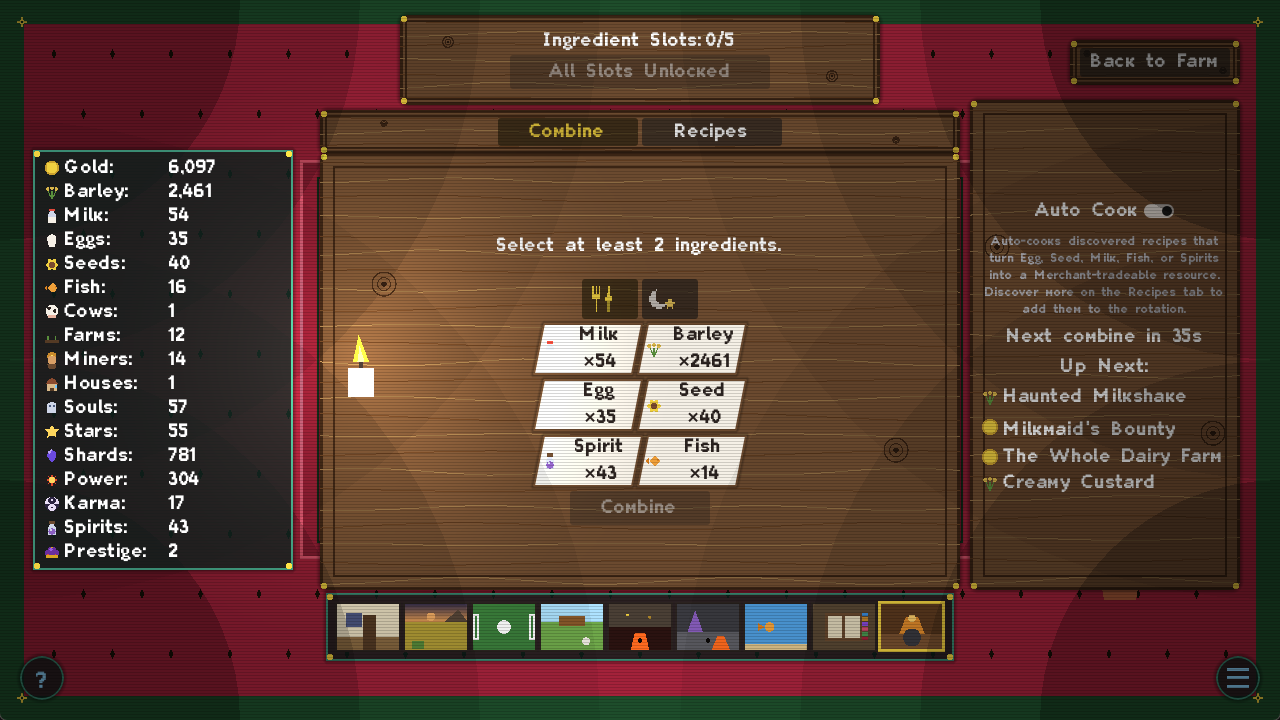
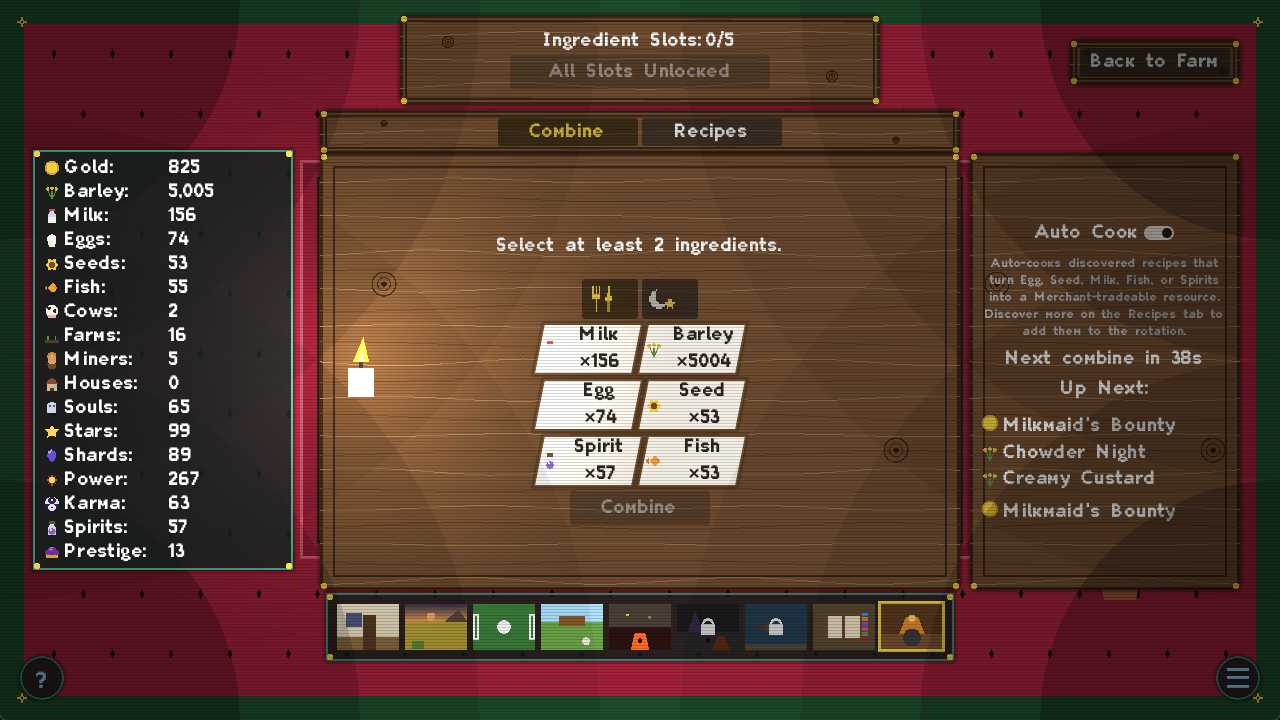
Add game trailer

diff --git a/style.css b/style.css
@@ -49,6 +49,7 @@ a { color: inherit; }
 }
 
 h1, h2, h3 { line-height: 1.15; margin: 0 0 0.75rem; }
+h3 { color: var(--studio-rust); }
 
 /* Buttons */
 .btn {
@@ -216,12 +217,41 @@ h1, h2, h3 { line-height: 1.15; margin: 0 0 0.75rem; }
   opacity: 0.85;
 }
 
-/* About */
-.about {
+/* Trailer */
+.trailer {
   background: var(--game-navy-1);
   padding: 4rem 0;
+  text-align: center;
+  border-bottom: 1px solid rgba(255, 255, 255, 0.06);
 }
-.about h3 { color: var(--accent-orange); }
+.trailer-tag {
+  max-width: 560px;
+  margin: 0 auto;
+  opacity: 0.85;
+}
+.video-embed {
+  position: relative;
+  width: 100%;
+  max-width: 860px;
+  margin: 2rem auto 0;
+  aspect-ratio: 16 / 9;
+  border-radius: 8px;
+  overflow: hidden;
+  border: 1px solid var(--game-navy-3);
+}
+.video-embed iframe {
+  position: absolute;
+  inset: 0;
+  width: 100%;
+  height: 100%;
+  border: 0;
+}
+
+/* About */
+.about {
+  background: var(--game-navy-2);
+  padding: 4rem 0;
+}
 .feature-grid {
   list-style: none;
   margin: 2rem 0 0;
@@ -232,7 +262,7 @@ h1, h2, h3 { line-height: 1.15; margin: 0 0 0.75rem; }
   gap: 1rem;
 }
 .feature-grid li {
-  background: var(--game-navy-2);
+  background: var(--game-navy-1);
   border: 1px solid var(--game-navy-3);
   border-radius: 8px;
   padding: 1.25rem 1rem;
@@ -255,10 +285,9 @@ h1, h2, h3 { line-height: 1.15; margin: 0 0 0.75rem; }
 
 /* Screenshots */
 .screenshots {
-  background: var(--game-navy-2);
+  background: var(--game-navy-1);
   padding: 4rem 0;
 }
-.screenshots h3 { color: var(--accent-yellow); }
 .screenshot-grid {
   margin-top: 2rem;
   display: grid;
@@ -271,13 +300,24 @@ h1, h2, h3 { line-height: 1.15; margin: 0 0 0.75rem; }
   border: 1px solid var(--game-navy-3);
 }
 
+/* CTA repeat */
+.cta-repeat {
+  background: var(--game-navy-2);
+  padding: 3rem 0;
+  text-align: center;
+}
+.cta-repeat p {
+  margin: 0 0 1rem;
+  opacity: 0.85;
+  font-size: 1.1rem;
+}
+
 /* More games */
 .more-games {
   background: var(--game-navy-1);
   padding: 3.5rem 0;
   text-align: center;
 }
-.more-games h3 { color: var(--accent-green); }
 .more-games p {
   max-width: 560px;
   margin: 0 auto;

diff --git a/index.html b/index.html
@@ -15,6 +15,7 @@
       <a href="#top" class="wordmark" aria-label="mendlogames home">mendlogames</a>
       <nav class="nav">
         <a href="#game">Game</a>
+        <a href="#trailer">Trailer</a>
         <a href="#screenshots">Screenshots</a>
         <a href="#contact">Contact</a>
       </nav>
@@ -39,6 +40,16 @@
         <h2>Miners, Moos &amp; Miracles</h2>
         <p class="tagline">An idle/incremental farm-and-adventure game with a retro CRT-styled shell. Tend your homestead, then dive into a handful of wildly different mini-games along the way.</p>
         <a href="#" class="btn btn-steam btn-large">Wishlist on Steam</a>
+      </div>
+    </section>
+
+    <section id="trailer" class="trailer">
+      <div class="wrap">
+        <h3>Trailer</h3>
+        <p class="trailer-tag">See the homestead, the mini-games, and the retro shell in motion.</p>
+        <div class="video-embed">
+          <iframe src="https://www.youtube.com/embed/rX1H9Bp-RD4" title="Miners, Moos &amp; Miracles trailer" frameborder="0" allow="accelerometer; autoplay; clipboard-write; encrypted-media; gyroscope; picture-in-picture; web-share" allowfullscreen loading="lazy"></iframe>
+        </div>
       </div>
     </section>
 
@@ -70,6 +81,13 @@
           <img src="assets/screenshots/screenshot-5.png" alt="Miners, Moos &amp; Miracles character wardrobe customization" loading="lazy" />
           <img src="assets/screenshots/screenshot-6.png" alt="Miners, Moos &amp; Miracles cooking and recipe combining" loading="lazy" />
         </div>
+      </div>
+    </section>
+
+    <section class="cta-repeat">
+      <div class="wrap">
+        <p>Liked what you saw?</p>
+        <a href="#" class="btn btn-steam btn-large">Wishlist on Steam</a>
       </div>
     </section>
 